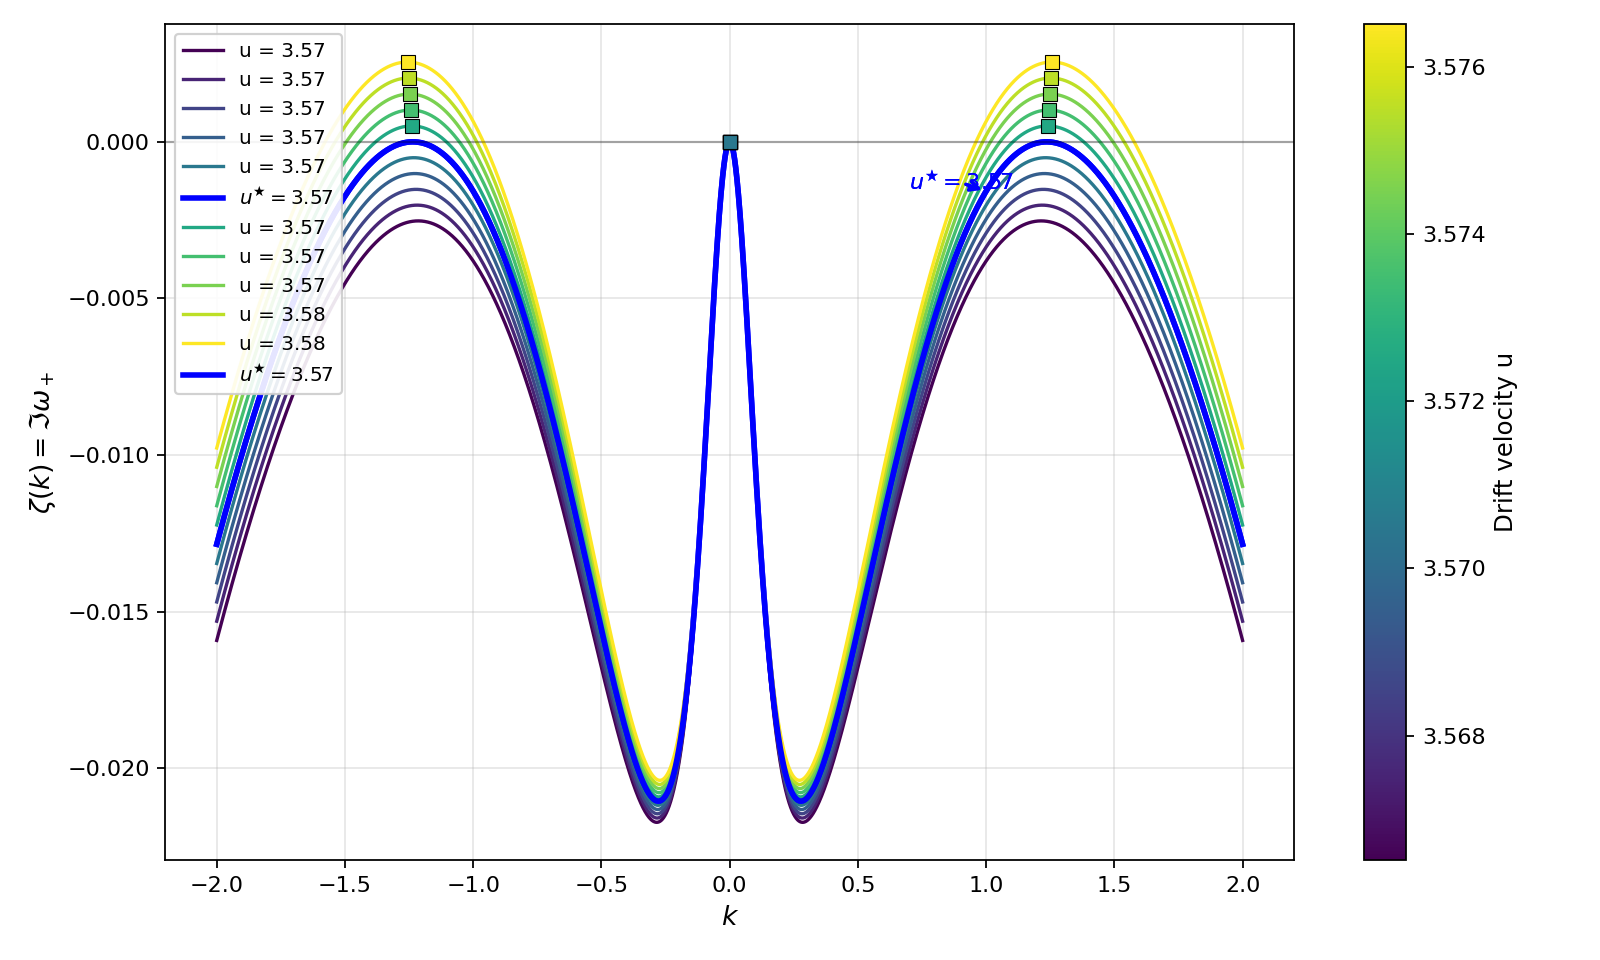
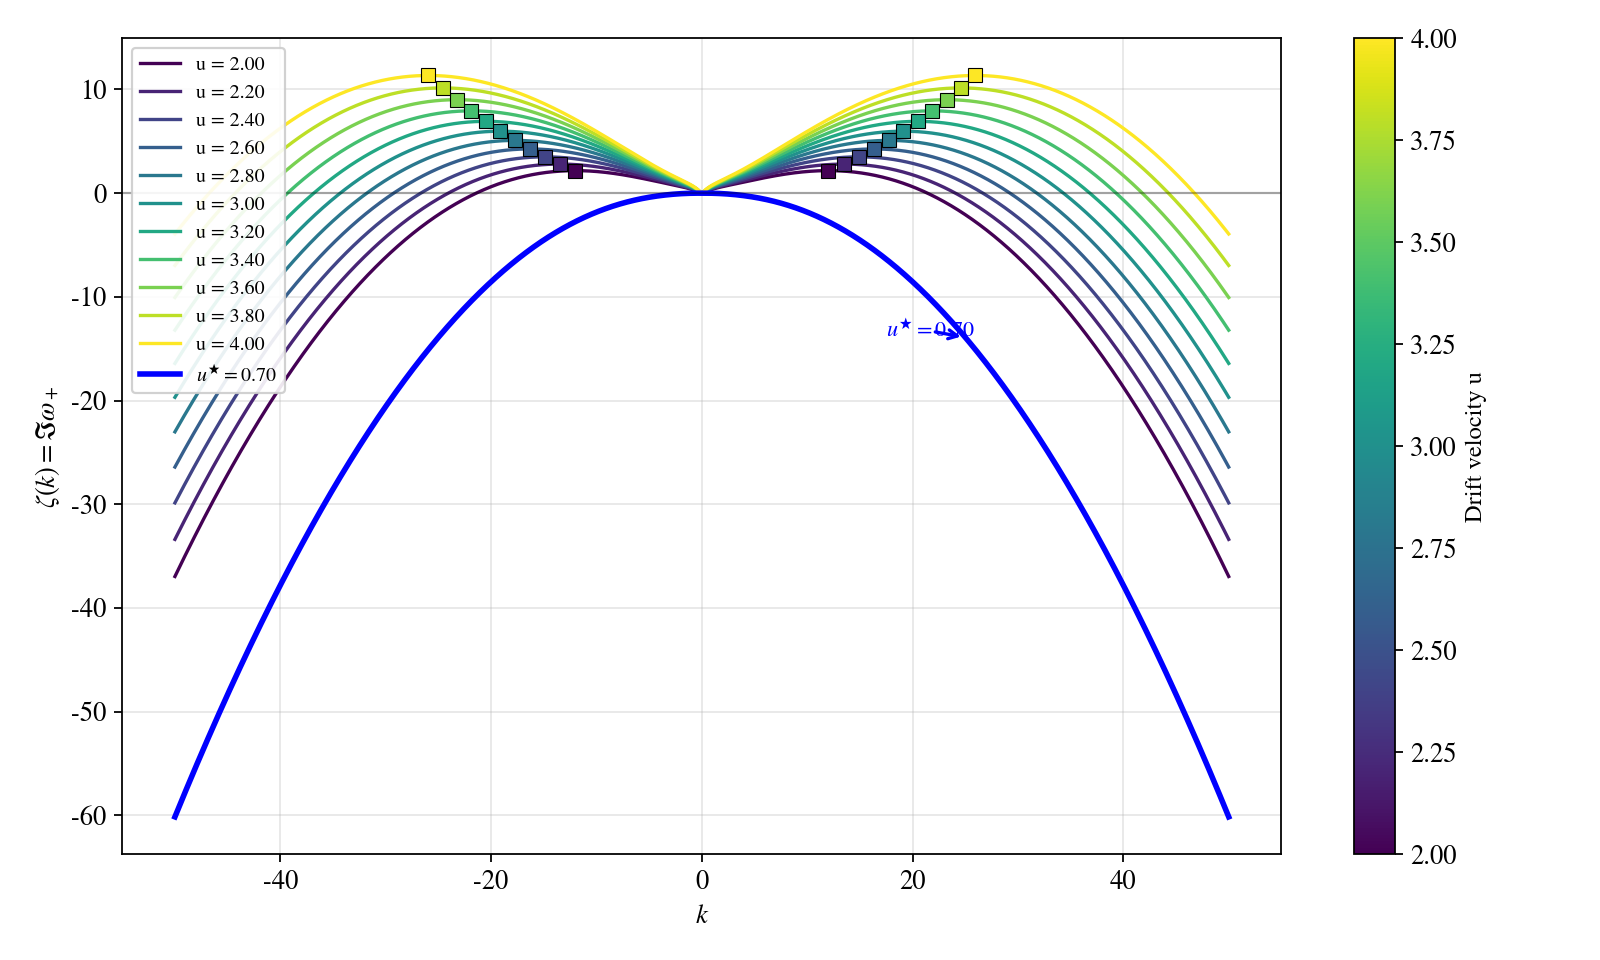
Linear instability increment: TeX for titles

diff --git a/linear instability increment/linear_instability_increment.py b/linear instability increment/linear_instability_increment.py
@@ -1,5 +1,15 @@
 import numpy as np
 import matplotlib.pyplot as plt
+import matplotlib as mpl
+
+# --- unified TeX-style appearance (MathText, no system LaTeX needed) ---
+mpl.rcParams.update({
+    "text.usetex": False,          # use MathText (portable)
+    "font.family": "STIXGeneral",  # match math fonts
+    "font.size": 12,
+    "mathtext.fontset": "stix",
+    "axes.unicode_minus": False,   # proper minus sign
+})
 
 def find_udrift(u0,u1,kmin=-8,kmax=8,N=20000,eps=1e-12,tol=1e-8,max_iter=80):
     k=np.linspace(kmin,kmax,N)
@@ -50,17 +60,17 @@ def u_star_for(scan=(0,5.0,0.01)):
         u+=st
     return None
 
-U0 = 1.5
-eta_p = 0.01
-eta_n = 10#*0.01
+U0 = 1.0
+eta_p = 0.1*0.25#0.01
+eta_n = 0.1#10.0#0.4#*0.01
 # n = 0.05#0.2
 # w = 0.1
 n = 0.2
-w = 0.22#0.4
-gamma0 = 3.0
+w = 0.25#24#0.4
+gamma0 = 2.5
 m = 1.0
-kmin = -2
-kmax = 2
+kmin = -50
+kmax = 50
 N = 20000
 
 fig, ax = plt.subplots(figsize=(10, 6))
@@ -70,9 +80,10 @@ L = 10.0  # Physical box size
 print("Calculating u_star...")
 u_star = u_star_for()
 
-u_d_min = u_star-0.005#2.5
-u_d_max = u_star+0.005#2.999
-u_d_step = 0.001
+step=0.1
+u_d_min = 2#u_star*(1-step)#2.5
+u_d_max = 4#u_star*(1+step*50)#2.999
+u_d_step = 0.2#u_star*step*5
 u_values = np.arange(u_d_min, u_d_max + u_d_step, u_d_step)
 
 if u_star is not None:
